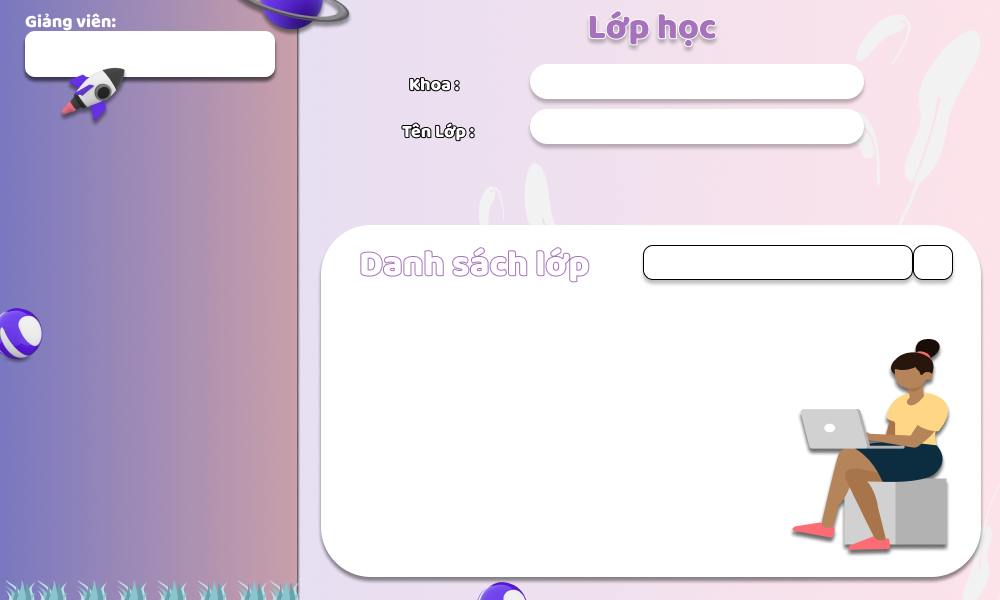
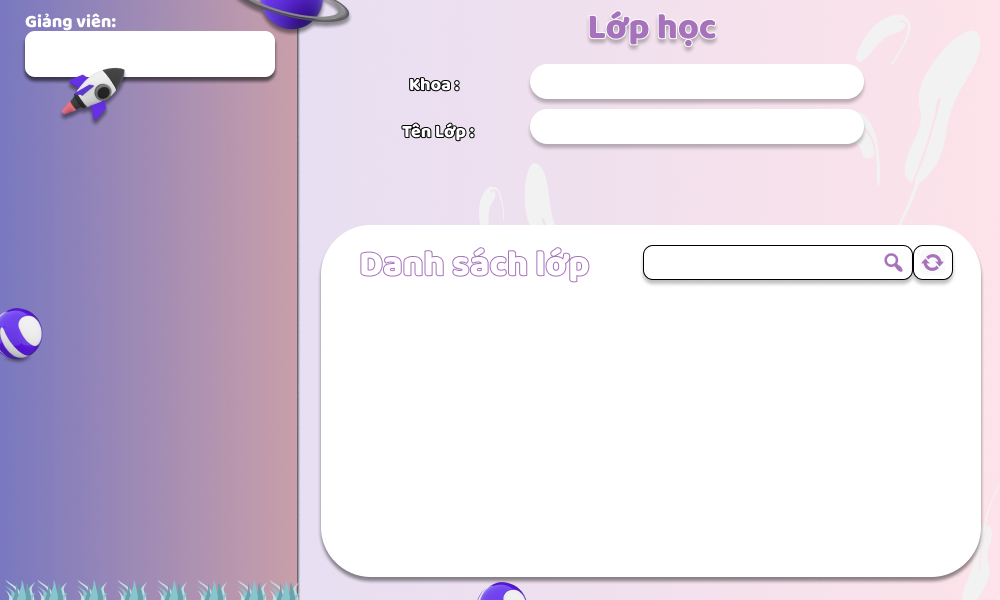
cap nhat file admin_lop

Changed region(s): [[0.775, 0.57, 0.961, 0.93], [0.868, 0.42, 0.961, 0.45]]

diff --git a/admin_lop.py b/admin_lop.py
@@ -4,6 +4,7 @@ from tkinter import PhotoImage
 from tkinter.ttk import Combobox
 from PIL import ImageTk
 import csdl
+import csdl_lop
 from tkinter import messagebox
 import dangnhap
 import socket
@@ -25,16 +26,26 @@ def main():
             tv.insert('','end',values=i)
     def them():
         ten=tenlop.get()
-        csdl.themlop(makhoa,ten)
-        row=csdl.banglop(makhoa)
+        csdl_lop.themlop(makhoa,ten)
+        row=csdl_lop.banglop(makhoa)
         messagebox.showinfo("thông báo","Thêm '"+ten+"' thành công")
         update(row)
     def xoa():
         ten=tenlop.get()
-        csdl.xoalop(malop.get())
-        row=csdl.banglop(makhoa)
-        messagebox.showinfo("thông báo","Xoá '"+ten+"' thành công")
-        update(row)
+        if csdl_lop.kt_loptontai(malop.get()) == True:
+            csdl_lop.xoalop(malop.get())
+            row=csdl_lop.banglop(makhoa)
+            messagebox.showinfo("thông báo","Xoá '"+ten+"' thành công")
+            update(row)
+            tenlop.set("")
+        else:
+            messagebox.showerror("thông báo", "Xoá lớp thất bại")
+    def sua():
+        tenmoi=tenlop.get()
+        malop1=malop.get()
+        csdl_lop.sua(malop1,tenmoi)
+        messagebox.showinfo("thông báo","Đã đổi tên lớp thành công")
+        khoiphuc()
     def getrow(event):
         rowid=tv.identify_row(event.y)
         item=tv.item(tv.focus())
@@ -42,10 +53,10 @@ def main():
         malop.set(item['values'][1])
     def khoiphuc():
         ndtimkiem.set("")
-        row=csdl.banglop(makhoa)
+        row=csdl_lop.banglop(makhoa)
         update(row)
     def timkiem():
-        row=csdl.timkiem_lop(makhoa,ndtimkiem.get())
+        row=csdl_lop.timkiem_lop(makhoa,ndtimkiem.get())
         update(row)
     def menuthongke():
         win.destroy()
@@ -111,7 +122,7 @@ def main():
 
     btnthem=Button(bg,image=img_btnthem,bd=0,highlightthickness=0,command=them)
     btnthem.place(x=487,y=181)
-    btnsua=Button(bg,image=img_btnsua,bd=0,highlightthickness=0)
+    btnsua=Button(bg,image=img_btnsua,bd=0,highlightthickness=0,command=sua)
     btnsua.place(x=637,y=181)
     btnxoa=Button(bg,image=img_btnxoa,bd=0,highlightthickness=0,command=xoa)
     btnxoa.place(x=770,y=181)
@@ -133,16 +144,16 @@ def main():
     Entry(bg,font=("Baloo Tamma",11),width=27,textvariable=ndtimkiem,bd=0,highlightthickness=0).place(x=656,y=251)
 
     tv = ttk.Treeview(bg, columns=(1,2,3), show="headings")
-    tv.column(1, width=80,anchor=CENTER)
-    tv.column(2, width=80,anchor=CENTER)
-    tv.column(3, width=200)
+    tv.column(1, width=120,anchor=CENTER)
+    tv.column(2, width=120,anchor=CENTER)
+    tv.column(3, width=300)
 
     tv.heading(1,text="Số thứ tự")
     tv.heading(2,text="Mã Lớp")
     tv.heading(3,text="Tên Lớp")
-    tv.place(x=349,y=320)
+    tv.place(x=390,y=320)
     tv.bind('<Double 1>', getrow)
-    row=csdl.banglop(makhoa)
+    row=csdl_lop.banglop(makhoa)
     update(row)
     win.mainloop()
 

diff --git a/csdl_lop.py b/csdl_lop.py
@@ -1,0 +1,53 @@
+import mysql.connector
+import socket 
+import datetime
+
+conn = mysql.connector.connect(
+  host="localhost",
+  user="root",
+  password="",
+  database="diemdanhsinhvien"
+)
+
+
+cur=conn.cursor()
+
+def banglop(makhoa):
+    cur.execute("SELECT ROW_NUMBER() OVER ( ORDER BY MaLop) AS STT , MaLop ,TenLop FROM lop where MaKhoa = "+str(makhoa)+"" ) 
+    rows = cur.fetchall()
+    return rows
+def timkiem_lop(makhoa,q):
+    cur.execute("SELECT ROW_NUMBER() OVER ( ORDER BY MaLop) AS STT , MaLop ,TenLop FROM lop where MaKhoa = "+str(makhoa)+" AND (MaLop like '%"+str(q)+"%' OR TenLop like '%"+str(q)+"%')" ) 
+    rows = cur.fetchall()
+    return rows
+def themlop(makhoa,tenl):
+    cur.execute("INSERT INTO lop(TenLop, MaKhoa) VALUES ('"+str(tenl)+"',"+str(makhoa)+")" ) 
+    conn.commit()
+def xoalop(malop):
+    cur.execute("DELETE FROM lop WHERE MaLop="+str(malop)+"" ) 
+    conn.commit()
+def kt_lop_diemdanh(malop):
+    cur.execute("SELECT MaLopp FROM diemdanh where MaLopp ="+str(malop)+"")
+    row = cur.fetchall()
+    return row
+def kt_lop_tkb(malop):
+    cur.execute("SELECT MaLop FROM chitiettkb where MaLop ="+str(malop)+"")
+    row = cur.fetchall()
+    return row
+def kt_lop_sinhvien(malop):
+    cur.execute("SELECT MaLop FROM sinhvien where MaLop ="+str(malop)+"")
+    row = cur.fetchall()
+    return row
+
+def kt_loptontai(malop):
+    if (kt_lop_diemdanh(malop) == []
+     and kt_lop_tkb(malop)== []
+     and kt_lop_sinhvien(malop) ==[]):
+      return True
+    else:
+      return False
+
+def sua(malop,tenlopm):
+    cur.execute("UPDATE lop SET TenLop='"+str(tenlopm)+"' WHERE MaLop="+str(malop)+"" ) 
+    conn.commit()
+

diff --git a/csdl.py b/csdl.py
@@ -466,23 +466,5 @@ def timkiem_diemdanh(magv,ngay,mamh,lop,ca,q):
     rows = cur.fetchall()
     return rows
 
-def banglop(makhoa):
-    cur=conn.cursor()
-    cur.execute("SELECT ROW_NUMBER() OVER ( ORDER BY MaLop) AS STT , MaLop ,TenLop FROM lop where MaKhoa = "+str(makhoa)+"" ) 
-    rows = cur.fetchall()
-    return rows
-def timkiem_lop(makhoa,q):
-    cur=conn.cursor()
-    cur.execute("SELECT ROW_NUMBER() OVER ( ORDER BY MaLop) AS STT , MaLop ,TenLop FROM lop where MaKhoa = "+str(makhoa)+" AND (MaLop like '%"+str(q)+"%' OR TenLop like '%"+str(q)+"%')" ) 
-    rows = cur.fetchall()
-    return rows
-def themlop(makhoa,tenl):
-    cur=conn.cursor()
-    cur.execute("INSERT INTO lop(TenLop, MaKhoa) VALUES ('"+str(tenl)+"',"+str(makhoa)+")" ) 
-    conn.commit()
-def xoalop(malop):
-    cur=conn.cursor()
-    cur.execute("DELETE FROM lop WHERE MaLop="+str(malop)+"" ) 
-    conn.commit()
 
 
